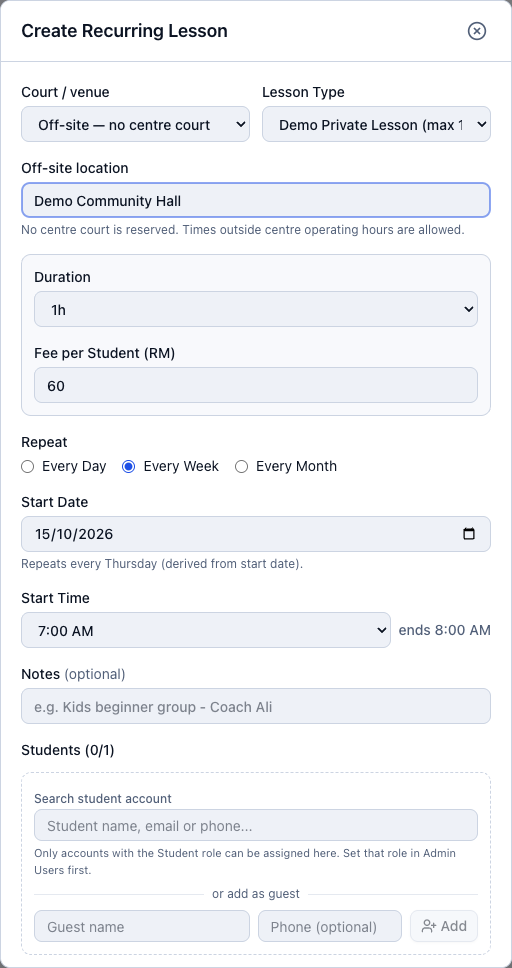
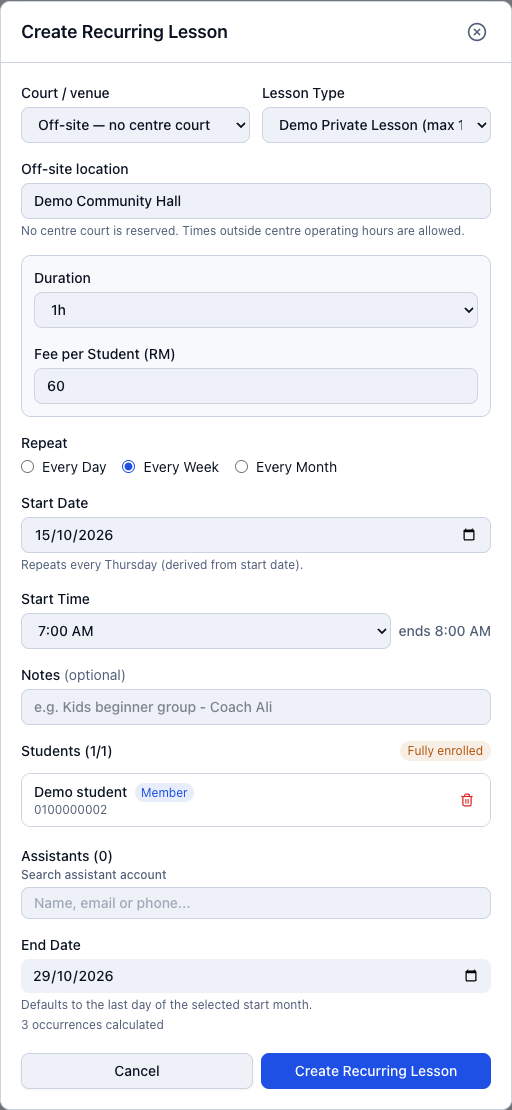
docs: add tested off-site lesson walkthrough snapshots

diff --git a/website/offsite-lessons.md b/website/offsite-lessons.md
@@ -14,7 +14,13 @@
 
 ![Fictional off-site lesson form](../images/features/offsite-lesson-create.png)
 
+For example, a weekly **7:00–8:00 AM** lesson from **15–29 October 2026** creates three occurrences: **15, 22 and 29 October**. Each carries the external venue and enrolled students.
+
 ![Fictional recurring off-site form](../images/features/offsite-recurring-create.png)
+
+After creation, the selected date lists both lessons under **Off-site lessons**. Use **Details** to inspect or edit an occurrence. These entries reserve no centre court.
+
+![Fictional saved one-off and recurring off-site lessons](../images/features/offsite-lessons-saved.png)
 
 ## Expected results and points
 
